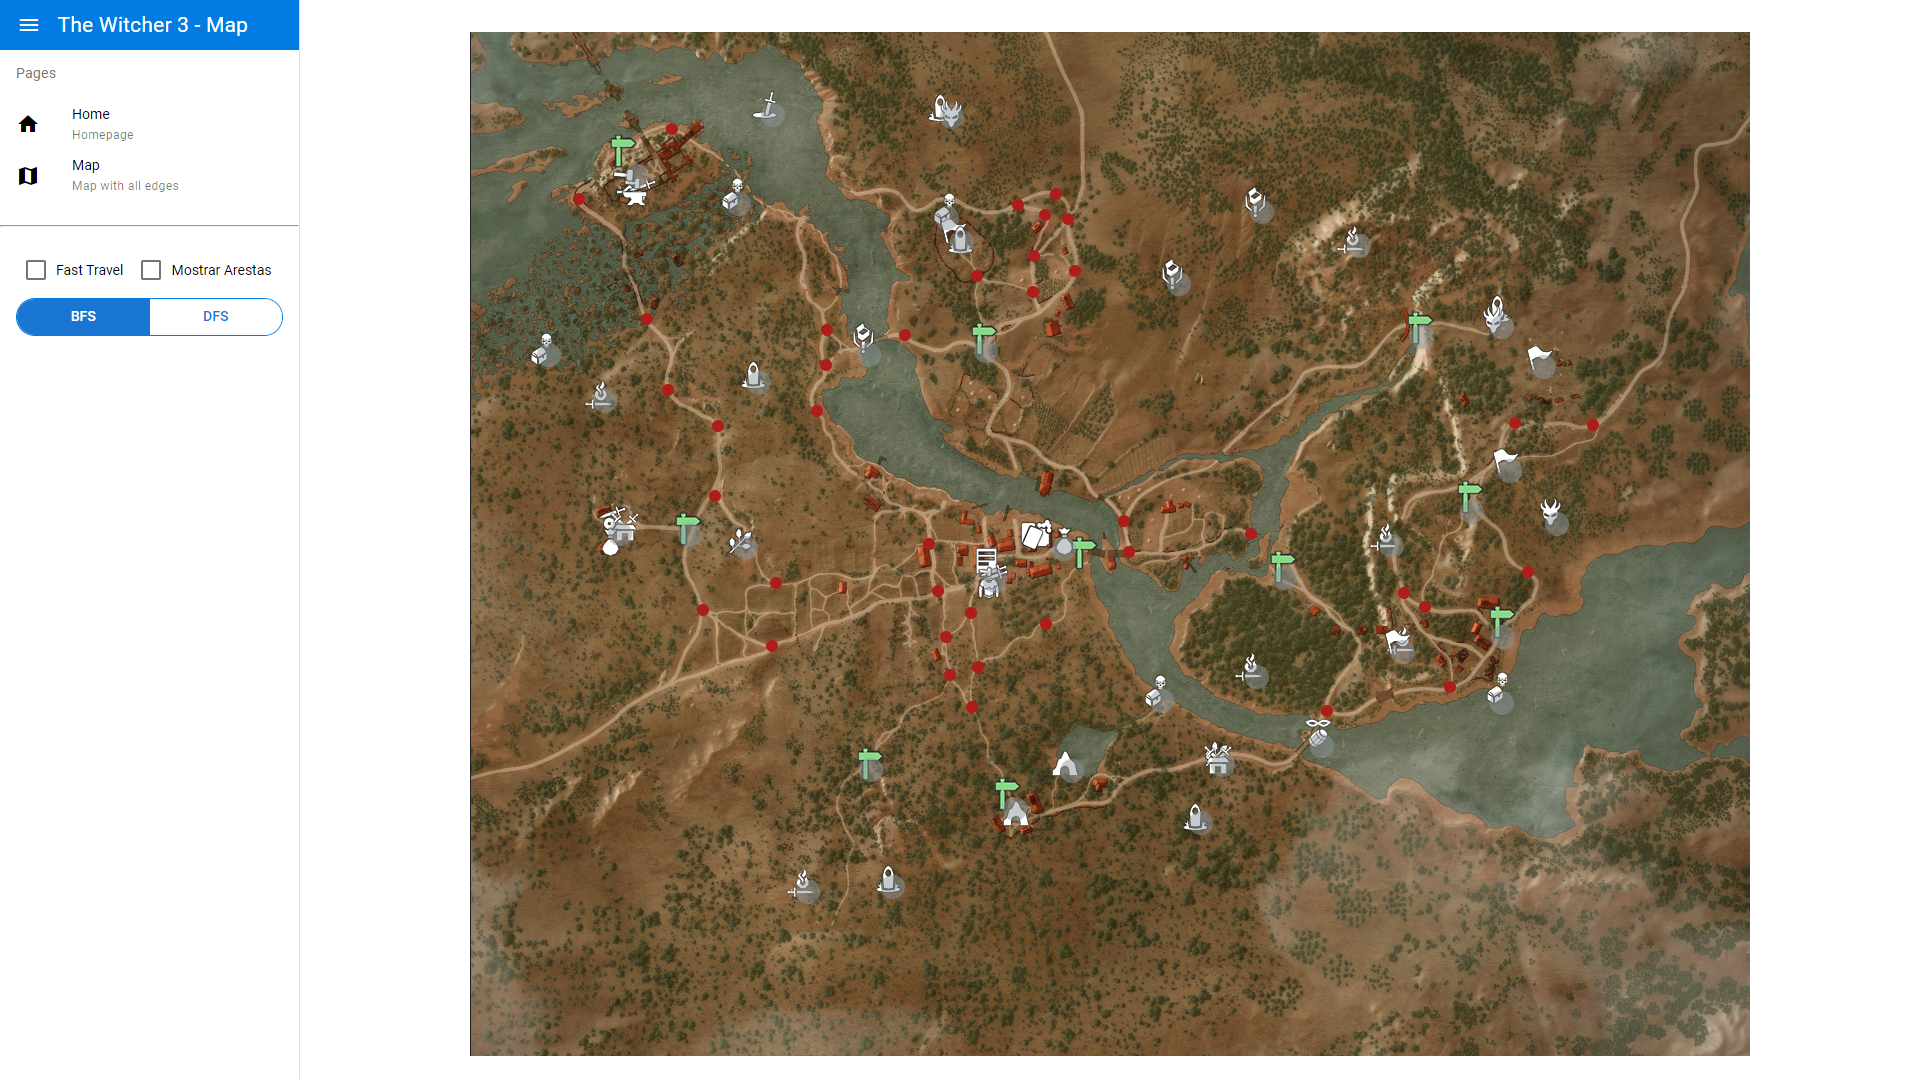
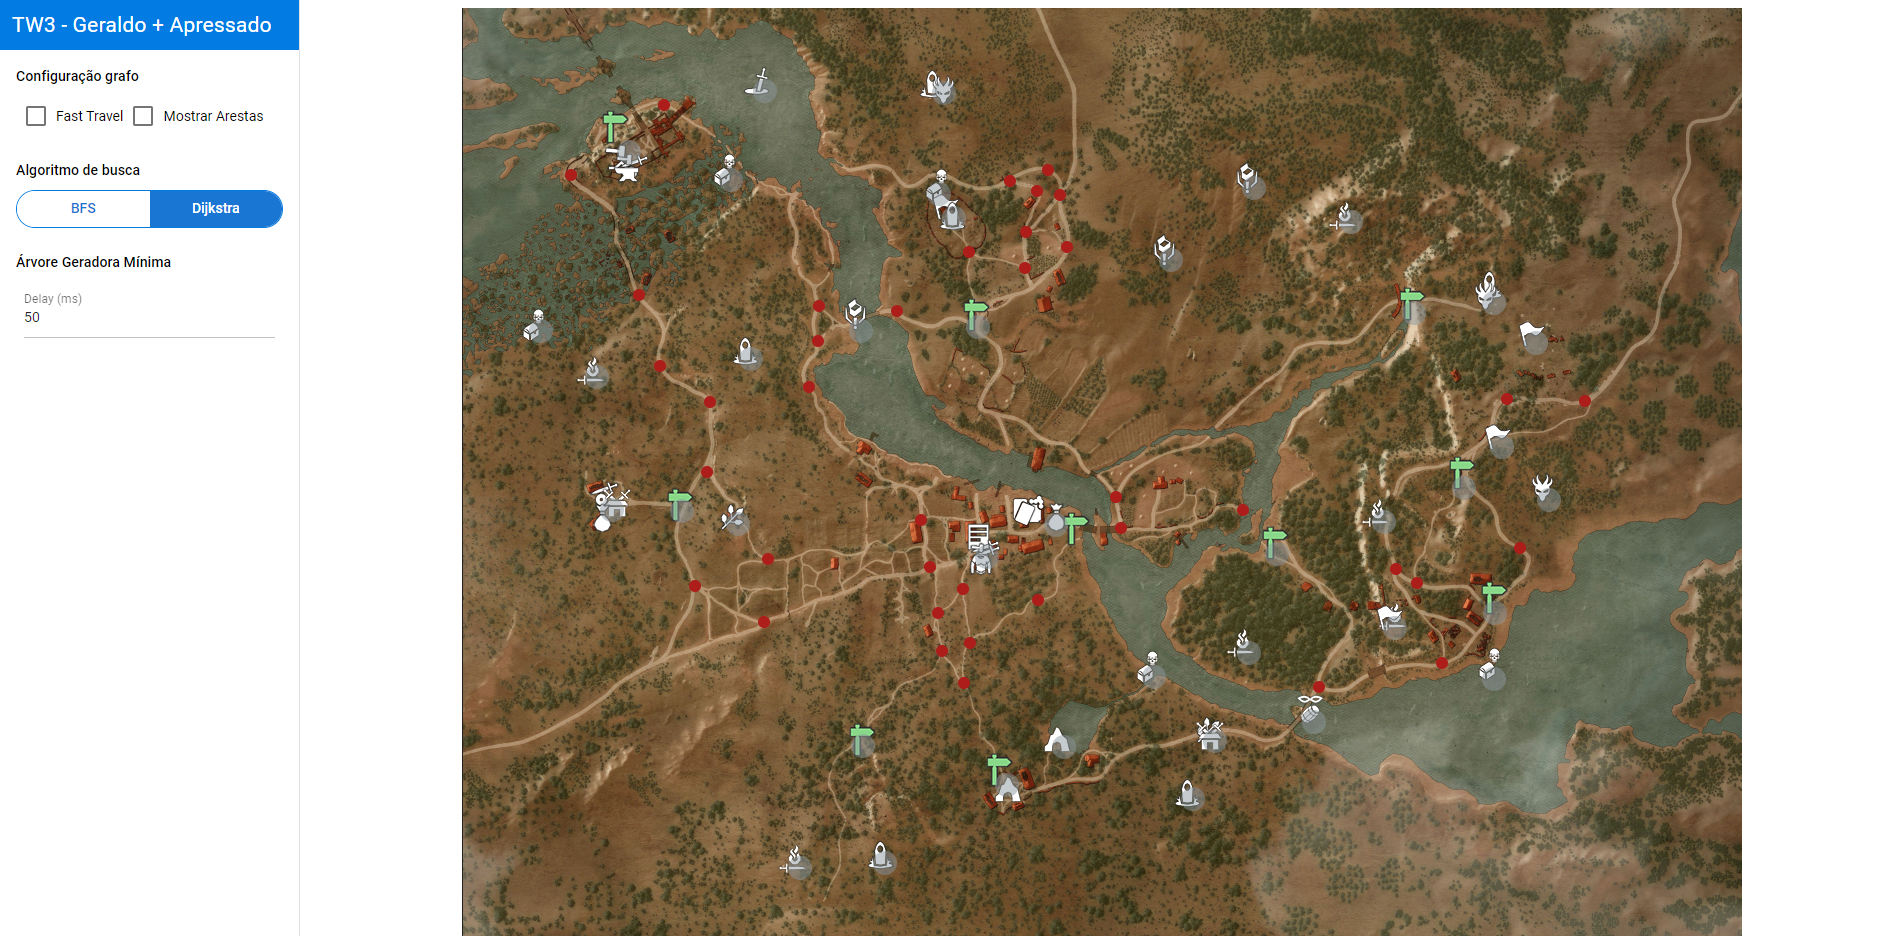
Updates README

diff --git a/src/components/FormData.vue b/src/components/FormData.vue
@@ -61,7 +61,7 @@
             <q-input
               v-model="weightSum"
               class="col-6 q-mt-sm"
-              label="Weight Sum"
+              label="Soma custos"
               style="pointer-events: none;"
             />
           </div>

diff --git a/README.md b/README.md
@@ -1,7 +1,7 @@
 # Witcher 3 - Geraldo Apressado
 
 **Número da Lista**: X<br>
-**Conteúdo da Disciplina**: Grafos 1<br>
+**Conteúdo da Disciplina**: Grafos 2<br>
 
 ## Alunos
 |Matrícula | Aluno |
@@ -10,21 +10,35 @@
 | 18/0028260  |  Thiago Aparecido Lopes Santos |
 
 ## Sobre
-O projeto consiste em um mapa da região de *White Orchard* do jogo *The Witcher 3*, onde o objetivo é demonstrar qual é o menor caminho entre dois pontos do mapa utilizando o algoritmo Breadth First Search (BFS).
+O projeto consiste em um mapa da região de *White Orchard* do jogo *The Witcher 3*, onde o objetivo é demonstrar qual é o menor caminho entre dois pontos do mapa e/ou exibir a árvore geradora mínima a partir de algum ponto do mapa.
+
+### Algoritmos utilizados
+
+- Busca
+  - Dijkstra
+  - Breadth First Search (BFS)
+- Árvore geradora mínima
+  - Prim
 
 *[The Witcher 3 - White Orchard](https://witcher.fandom.com/wiki/White_Orchard)*
 
-O vídeo da apresentação pode ser encontrado clicando [aqui](https://github.com/projeto-de-algoritmos/Grafos1_Witcher_3_Geraldo_Apressado/blob/c9cb0db305876c3cb251bfcd239442dda949d2fc/pa_grafos1_presentation.mp4?raw=true).
+O vídeo da apresentação pode ser encontrado clicando [aqui](https://github.com/projeto-de-algoritmos/Grafos2_Witcher_3_Geraldo_Mais_Apressado/blob/c9cb0db305876c3cb251bfcd239442dda949d2fc/pa_grafos2_presentation.mp4?raw=true).
 
 ## Screenshots
 ### Página Inicial
 ![home](./src/assets/screenshots/home.png)
 
-### Exemplo em funcionamento (menor caminho entre dois pontos)
-![bfs_example](./src/assets/screenshots/bfs_example.png)
+### Exemplo em funcionamento (menor caminho entre dois pontos Dijkstra)
+![dijkstra_example](./src/assets/screenshots/dijkstra_path.png)
 
-### Exemplo em funcionamento (todas as arestas preenchidas)
-![all_edges_example](./src/assets/screenshots/all_edges_example.png)
+### Exemplo em funcionamento (menor caminho entre dois pontos BFS com fast travel)
+![bfs_fast_travel_example](./src/assets/screenshots/bfs_fast_travel.png)
+
+### Exemplo em funcionamento (árvore geradora mínima Prim)
+![prim_mst_example](./src/assets/screenshots/prim_mst.png)
+
+### Exemplo em funcionamento (todas as arestas com custos)
+![all_edges_example](./src/assets/screenshots/all_edges_with_costs.png)
 
 ## Instalação
 **Linguagem**: JavaScript<br>
@@ -49,9 +63,11 @@ para iniciar o projeto.
 Após iniciar o projeto, acesse seu [localhost](http://localhost:8080/), e na página inicial você terá acesso a uma representação do mapa do jogo.
 Note que o mapa possui pontos vermelhos e azuis que simbolizam os nós do grafo.
 
-Para interagir com o mapa, basta selecionar dois nós dispostos no mesmo, sendo que o primeiro nó representará o ponto de partida, e o segundo representará o ponto de chegada. Após a seleção de ambos, um dos menores caminhos possíveis entre os dois nós será desenhado no mapa por meio de retas. Para desfazer a seleção, basta clicar em qualquer lugar do mapa.
+Para que seja exibido o menor caminho entre 2 pontos no mapa, basta selecionar dois nós dispostos no mesmo, sendo que o primeiro nó representará o ponto de partida, e o segundo representará o ponto de chegada. Após a seleção de ambos, um dos menores caminhos possíveis entre os dois nós será desenhado no mapa por meio de retas. Para desfazer a seleção, basta clicar em qualquer lugar do mapa.
 
-Existem duas opções selecionáveis à esquerda, sendo elas:
+Para que seja exibida a árvore geradora mínima, basta clicar duas vezes em algum nó, este nó representará o nó de início do algoritmo de Prim. Para desfazer a seleção, basta clicar em qualquer lugar do mapa.
+
+Existem algumas opções selecionáveis à esquerda, sendo elas:
 
 - Fast Travel
 
@@ -59,10 +75,24 @@ As placas verdes dispostas no mapa representam pontos de viagem rápida (Fast Tr
 
 - Mostrar Arestas
 
-Esta opção ativa todas as arestas entre os nós, fazendo com que o mapa fique totalmente preenchido.
+Esta opção desenha todas as arestas entre os nós, fazendo com que o mapa fique totalmente preenchido. Para remover as arestas desenhadas basta desmarcar a opção.
+
+- Algoritmo de Busca
+
+Esta opção permite selecionar o algoritmo de busca que será utilizado: BFS ou Dijkstra.
+
+- Delay
+
+Esta opção permite alterar o intervalo entre o desenho de cada arestada definida para árvore geradora mínima.
+
+E existe uma opção não selecionável que é exibida após iniciar o desenho da árvore geradora mínima:
+
+- Soma custos
+
+Esta opção exibe a soma dos custos de todas as arestas presentes na árvore geradora mínima.
 
 ## Outros
 
-### Disclaimer
+### Definição do custo
 
-Por utilizar BFS, o algoritmo leva em consideração apenas a quantidade de arestas entre os dois pontos para mostrar o menor caminho, e não a menor distância de fato entre um ponto e outro. Dessa maneira, pode haver casos em que existam caminhos visivelmente menores entre dois pontos, porém nunca com menor quantidade de arestas.
+O cálculo do custo é realizado considerando a distância entre os nós e se a aresta passa por um caminho fora da estrada (selvagem).
